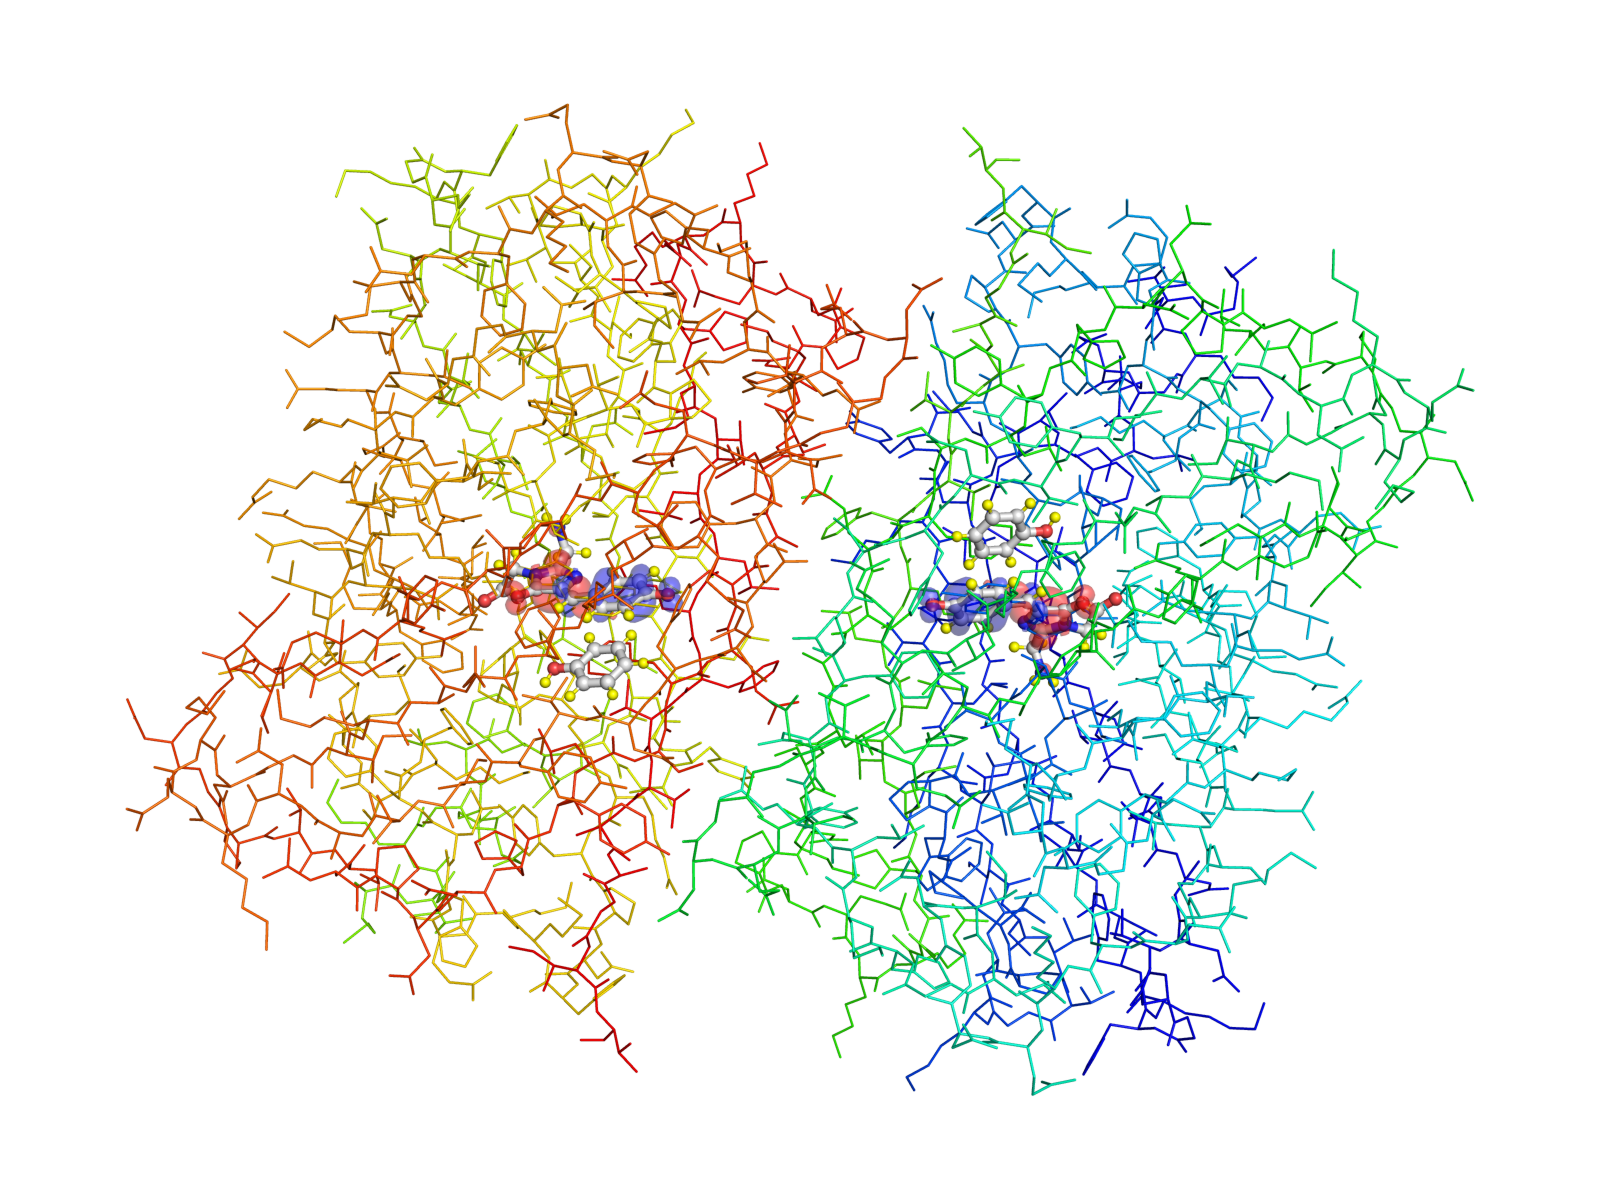
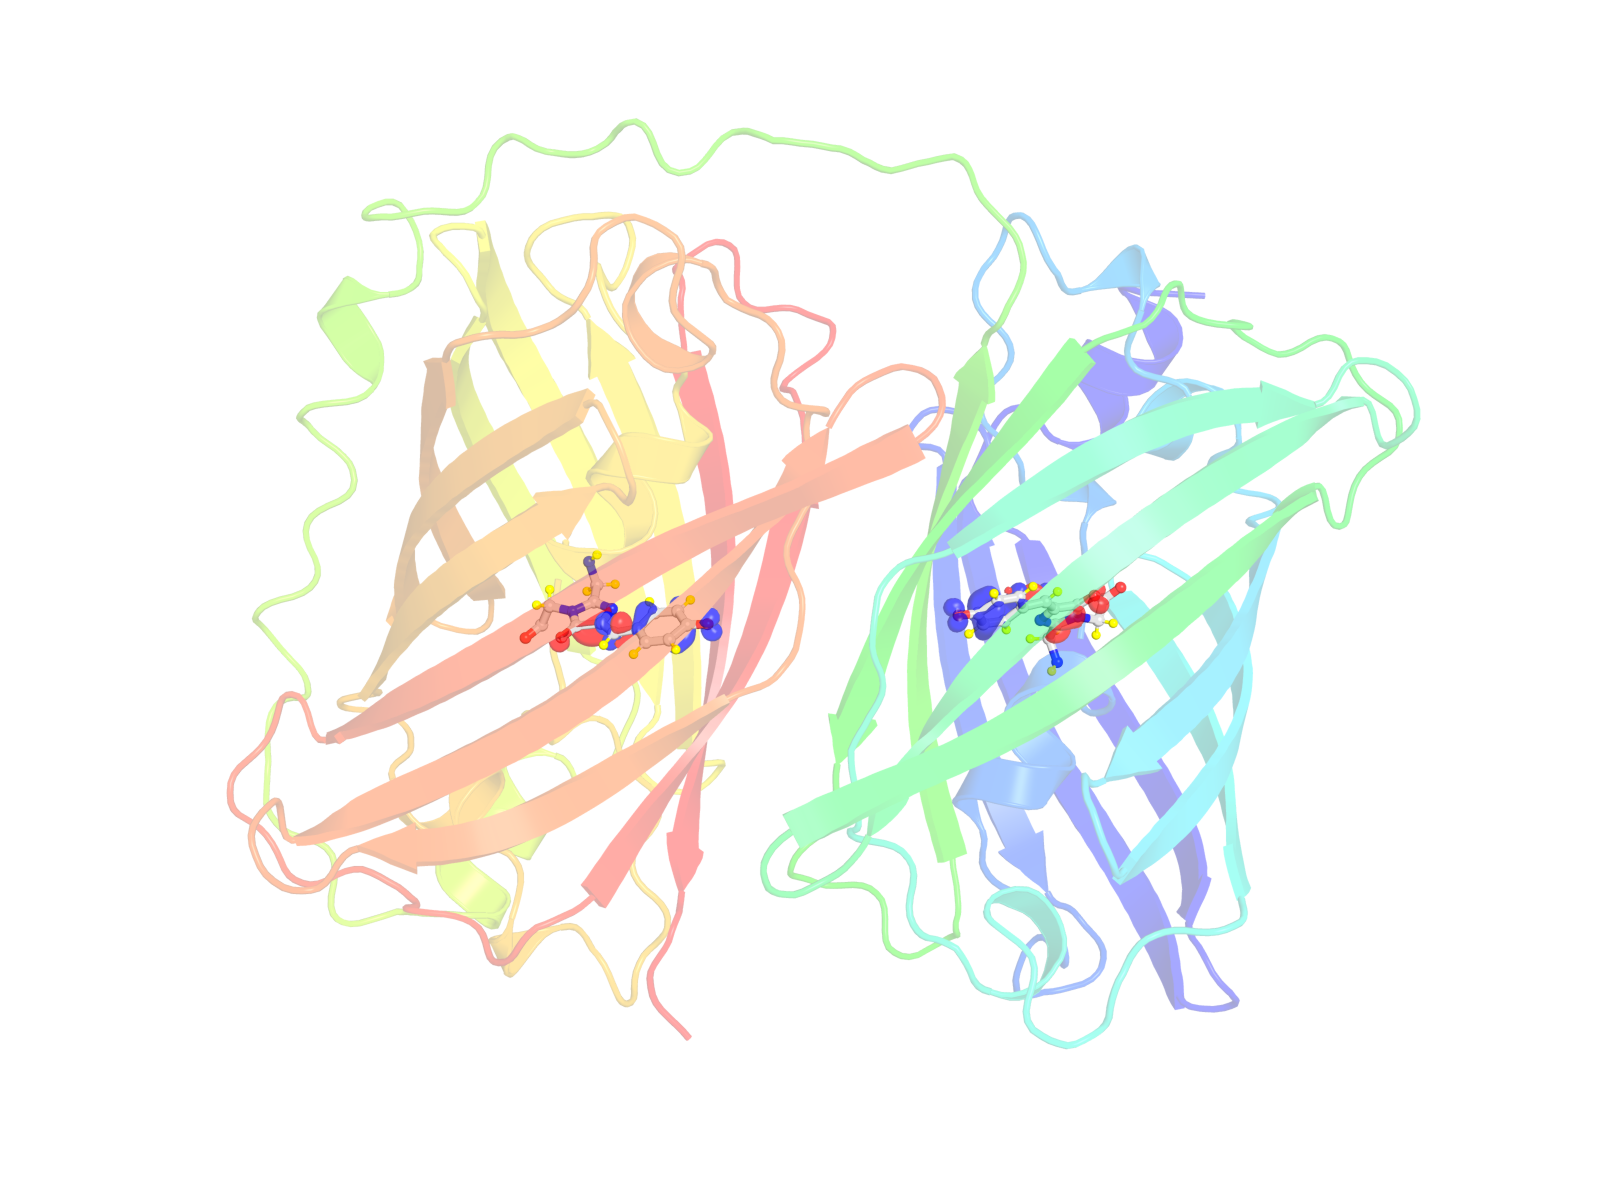
Update Figures 2, 3 and TOC to use tandem_dimer.pdb instead of venus_dimer.pdb

Changed region(s): [[0.0938, 0.0925, 0.9062, 0.8942]]

diff --git a/make_paper_figures.py b/make_paper_figures.py
@@ -1,0 +1,76 @@
+# make_paper_figures.py  — STEOM-CCSD versions of the paper's four density panels.
+# Format matched to visualise_dimer.pml / the JPCL figures:
+#   transition density  rho_0n         -> red (+) / blue (-)
+#   difference density  rho_e - rho_g  -> green (gain) / violet (loss)
+#   each shown as (a) full dimer view (rainbow MM backbone) and (b) QM close-up (site B).
+from pymol import cmd, util
+import os
+
+DIMER = "/home/robson/PetaChem/tandem_dimer.pdb"
+MONO  = "/home/robson/PetaChem/tc_simple_anionic/monomer_relaxed.pdb"
+TRANS = "/home/robson/PetaChem/neo_model/orca_steom/steom_transdens.cube"
+DIFF  = "/home/robson/PetaChem/neo_model/orca_steom/steom_diffdens.cube"
+OUT   = "/home/robson/PetaChem/plots_steom"; os.makedirs(OUT, exist_ok=True)
+ISO, W, H, QM = 0.04, 1600, 1200, "resi 66"     # CR2 chromophore
+
+cmd.reinitialize()
+cmd.bg_color("white")
+for k, v in [("ray_opaque_background",0),("ray_shadows",0),("antialias",2),("ambient",0.45),
+             ("transparency",0.35),("cartoon_transparency",0.65),("cartoon_fancy_helices",1),
+             ("depth_cue",0),("valence",0),("sphere_scale",0.22)]:
+    cmd.set(k, v)
+
+# dimer scaffold + a monomer aligned onto each site
+cmd.load(DIMER, "dimer_ref")
+cmd.load(MONO, "siteA"); cmd.load(MONO, "siteB")
+cmd.super("siteA", "dimer_ref and resi 1-229")
+cmd.super("siteB", "dimer_ref and resi 263-491")
+
+cmd.hide("everything")
+cmd.show("cartoon", "dimer_ref")
+cmd.spectrum("count", "rainbow", "dimer_ref and name CA")        # MM backbone, depth cue
+
+for s in ("siteA","siteB"):                                       # QM chromophore sticks+spheres
+    cmd.show("sticks",  f"{s} and {QM}")
+    cmd.show("spheres", f"{s} and {QM}")
+util.cbaw(f"(siteA or siteB) and {QM}")                          # white carbons
+cmd.color("yellow", f"(siteA or siteB) and {QM} and elem H")
+
+# map the monomer densities onto both sites via the alignment matrices
+cmd.load(TRANS, "mt"); cmd.load(DIFF, "md")
+for src, dst, site in [("mt","mt_A","siteA"),("mt","mt_B","siteB"),
+                       ("md","md_A","siteA"),("md","md_B","siteB")]:
+    cmd.copy(dst, src); cmd.matrix_copy(site, dst)
+cmd.disable("mt"); cmd.disable("md")
+
+for s in ("A","B"):                                              # transition density: red/blue
+    cmd.isosurface(f"tr_{s}_p", f"mt_{s}",  ISO)
+    cmd.isosurface(f"tr_{s}_n", f"mt_{s}", -ISO)
+    cmd.isosurface(f"df_{s}_p", f"md_{s}",  ISO)                 # difference density: green/violet
+    cmd.isosurface(f"df_{s}_n", f"md_{s}", -ISO)
+cmd.color("red","tr_*_p"); cmd.color("blue","tr_*_n")
+cmd.color("green","df_*_p"); cmd.color("violet","df_*_n")
+cmd.group("Transition_Density","tr_*"); cmd.group("Difference_Density","df_*")
+
+def render(fn, kind, view):
+    cmd.disable("Transition_Density"); cmd.disable("Difference_Density")
+    cmd.enable("Transition_Density" if kind=="tr" else "Difference_Density")
+    if view == "dimer":
+        cmd.enable("siteA"); cmd.enable("siteB"); cmd.show("cartoon","dimer_ref")
+        cmd.enable(f"{kind}_A_p"); cmd.enable(f"{kind}_A_n")
+        cmd.orient("dimer_ref")
+    else:                                                        # site-B QM close-up
+        cmd.hide("cartoon"); cmd.disable("siteA")
+        cmd.disable(f"{kind}_A_p"); cmd.disable(f"{kind}_A_n")
+        cmd.orient(f"siteB and {QM}"); cmd.zoom(f"siteB and {QM}", 3)
+    cmd.ray(W, H); cmd.png(f"{OUT}/{fn}", dpi=300); print("wrote", fn)
+
+render("01_transition_dimer.png", "tr", "dimer")
+render("02_transition_qm.png",    "tr", "qm")
+render("03_difference_dimer.png", "df", "dimer")
+render("04_difference_qm.png",    "df", "qm")
+
+# clean state for interactive viewing
+cmd.enable("siteA"); cmd.enable("siteB"); cmd.show("cartoon","dimer_ref")
+cmd.enable("Transition_Density"); cmd.disable("Difference_Density"); cmd.orient("dimer_ref")
+print("DONE — 4 paper-format figures in", OUT)

diff --git a/make_toc_white.py b/make_toc_white.py
@@ -1,0 +1,56 @@
+# make_toc.py — graphical-abstract (TOC) render for the JPC B revision.
+# Landscape ACS TOC aspect (~1.85:1): the two Venus beta-barrels as translucent
+# yellow cartoon, each chromophore's 44-atom STEOM QM region as sticks, with the
+# STEOM transition density (red/blue) showing the delocalised, coupled excitation.
+from pymol import cmd, util
+import os
+
+B     = "/home/robson/PetaChem"
+DIMER = f"{B}/tandem_dimer.pdb"
+MONO  = f"{B}/tc_simple_anionic/monomer_relaxed.pdb"
+QMXYZ = f"{B}/neo_model/orca_steom/steom_qm.xyz"
+TRANS = f"{B}/neo_model/orca_steom/steom_transdens.cube"
+OUT   = f"{B}/plots_steom"; os.makedirs(OUT, exist_ok=True)
+ISO, W, H = 0.04, 2000, 1080          # 1.852:1 ~ ACS TOC 3.25 x 1.75 in
+
+cmd.reinitialize()
+for k, v in [("ray_shadows", 0), ("antialias", 2), ("transparency", 0.4),
+             ("cartoon_transparency", 0.55), ("cartoon_fancy_helices", 1),
+             ("depth_cue", 0), ("sphere_scale", 0.22), ("valence", 0),
+             ("ray_opaque_background", 1)]:
+    cmd.set(k, v)
+cmd.bg_color("white")
+
+cmd.load(DIMER, "dimer_ref")
+cmd.load(MONO, "siteA"); cmd.load(MONO, "siteB")
+cmd.super("siteA", "dimer_ref and resi 1-229")
+cmd.super("siteB", "dimer_ref and resi 263-491")
+
+cmd.load(QMXYZ, "qmA"); cmd.load(QMXYZ, "qmB")
+cmd.matrix_copy("siteA", "qmA"); cmd.matrix_copy("siteB", "qmB")
+
+cmd.load(TRANS, "mt")
+for dst, site in [("mt_A", "siteA"), ("mt_B", "siteB")]:
+    cmd.copy(dst, "mt"); cmd.matrix_copy(site, dst)
+cmd.disable("mt")
+
+cmd.hide("everything")
+cmd.show("lines", "dimer_ref"); cmd.spectrum("count", "rainbow", "dimer_ref")  # rainbow skeleton (matches Figs 2,3)
+for q in ("qmA", "qmB"):
+    cmd.show("sticks", q); cmd.show("spheres", q)
+util.cbaw("qmA or qmB")
+cmd.color("gray90", "(qmA or qmB) and elem C")
+cmd.color("yellow", "(qmA or qmB) and elem H")
+cmd.set("stick_radius", 0.13, "qmA or qmB")
+cmd.set("sphere_scale", 0.22, "qmA or qmB")
+
+for s in ("A", "B"):                                   # STEOM transition density, carved to QM
+    cmd.isosurface(f"tr_{s}_p", f"mt_{s}",  ISO, f"qm{s}", carve=5.0)
+    cmd.isosurface(f"tr_{s}_n", f"mt_{s}", -ISO, f"qm{s}", carve=5.0)
+cmd.color("red", "tr_*_p"); cmd.color("blue", "tr_*_n")
+
+cmd.orient("dimer_ref")                                # long (barrel-to-barrel) axis -> horizontal
+cmd.zoom("dimer_ref", 3)
+cmd.ray(W, H)
+cmd.png(f"{OUT}/toc_steom_white.png", dpi=300)
+print("wrote toc_steom_white.png", W, "x", H)

diff --git a/make_toc.py b/make_toc.py
@@ -1,0 +1,54 @@
+# make_toc.py — graphical-abstract (TOC) render for the JPC B revision.
+# Landscape ACS TOC aspect (~1.85:1): the two Venus beta-barrels as translucent
+# yellow cartoon, each chromophore's 44-atom STEOM QM region as sticks, with the
+# STEOM transition density (red/blue) showing the delocalised, coupled excitation.
+from pymol import cmd, util
+import os
+
+B     = "/home/robson/PetaChem"
+DIMER = f"{B}/tandem_dimer.pdb"
+MONO  = f"{B}/tc_simple_anionic/monomer_relaxed.pdb"
+QMXYZ = f"{B}/neo_model/orca_steom/steom_qm.xyz"
+TRANS = f"{B}/neo_model/orca_steom/steom_transdens.cube"
+OUT   = f"{B}/plots_steom"; os.makedirs(OUT, exist_ok=True)
+ISO, W, H = 0.04, 2000, 1080          # 1.852:1 ~ ACS TOC 3.25 x 1.75 in
+
+cmd.reinitialize()
+for k, v in [("ray_shadows", 0), ("antialias", 2), ("transparency", 0.4),
+             ("cartoon_transparency", 0.55), ("cartoon_fancy_helices", 1),
+             ("depth_cue", 0), ("sphere_scale", 0.22), ("valence", 0),
+             ("ray_opaque_background", 1)]:
+    cmd.set(k, v)
+cmd.bg_color("black")
+
+cmd.load(DIMER, "dimer_ref")
+cmd.load(MONO, "siteA"); cmd.load(MONO, "siteB")
+cmd.super("siteA", "dimer_ref and resi 1-229")
+cmd.super("siteB", "dimer_ref and resi 263-491")
+
+cmd.load(QMXYZ, "qmA"); cmd.load(QMXYZ, "qmB")
+cmd.matrix_copy("siteA", "qmA"); cmd.matrix_copy("siteB", "qmB")
+
+cmd.load(TRANS, "mt")
+for dst, site in [("mt_A", "siteA"), ("mt_B", "siteB")]:
+    cmd.copy(dst, "mt"); cmd.matrix_copy(site, dst)
+cmd.disable("mt")
+
+cmd.hide("everything")
+cmd.dss("dimer_ref")                                   # assign SS so barrels render
+cmd.show("cartoon", "dimer_ref"); cmd.color("yellow", "dimer_ref")
+for q in ("qmA", "qmB"):
+    cmd.show("sticks", q)
+util.cbaw("qmA or qmB"); cmd.color("gray90", "(qmA or qmB) and elem C")
+cmd.set("stick_radius", 0.13, "qmA or qmB")
+
+for s in ("A", "B"):                                   # STEOM transition density, carved to QM
+    cmd.isosurface(f"tr_{s}_p", f"mt_{s}",  ISO, f"qm{s}", carve=5.0)
+    cmd.isosurface(f"tr_{s}_n", f"mt_{s}", -ISO, f"qm{s}", carve=5.0)
+cmd.color("red", "tr_*_p"); cmd.color("blue", "tr_*_n")
+
+cmd.orient("dimer_ref")                                # long (barrel-to-barrel) axis -> horizontal
+cmd.zoom("dimer_ref", 3)
+cmd.ray(W, H)
+cmd.png(f"{OUT}/toc_steom.png", dpi=300)
+print("wrote toc_steom.png", W, "x", H)
